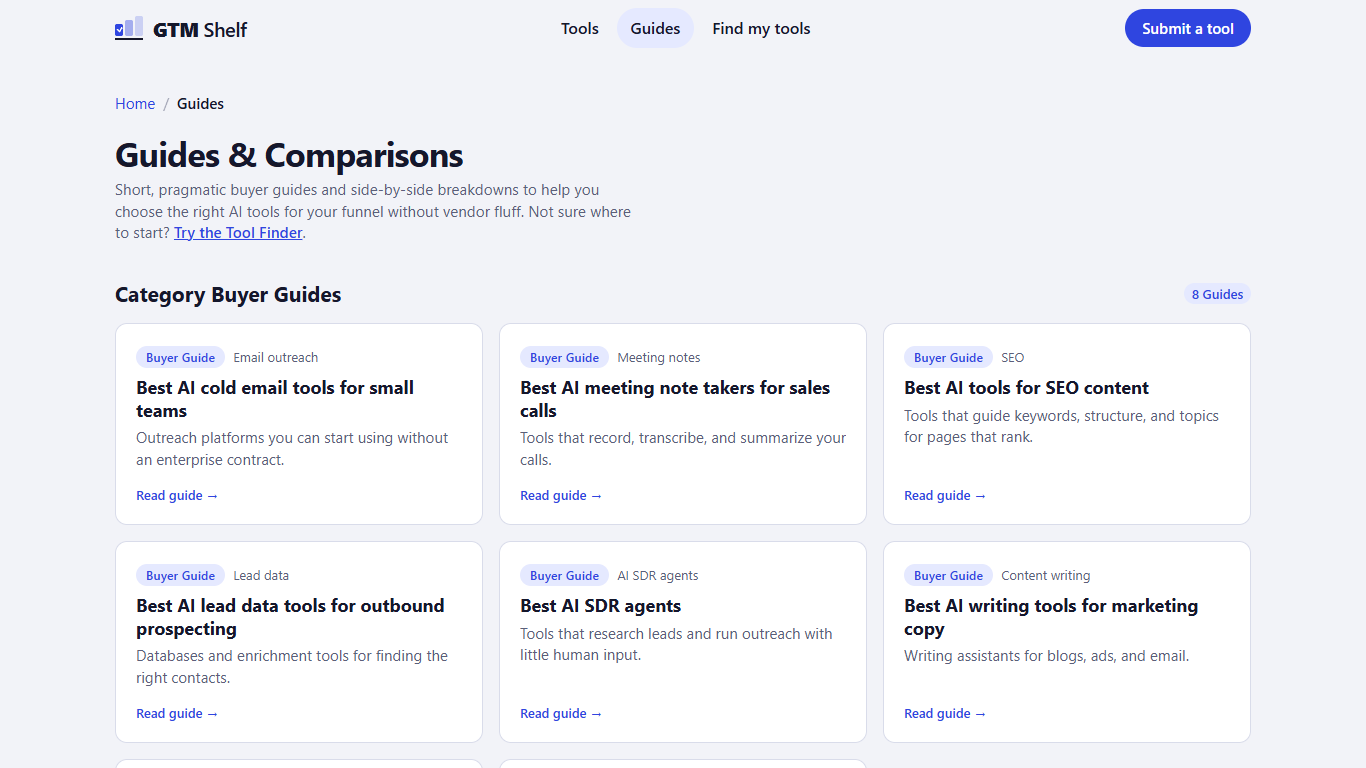
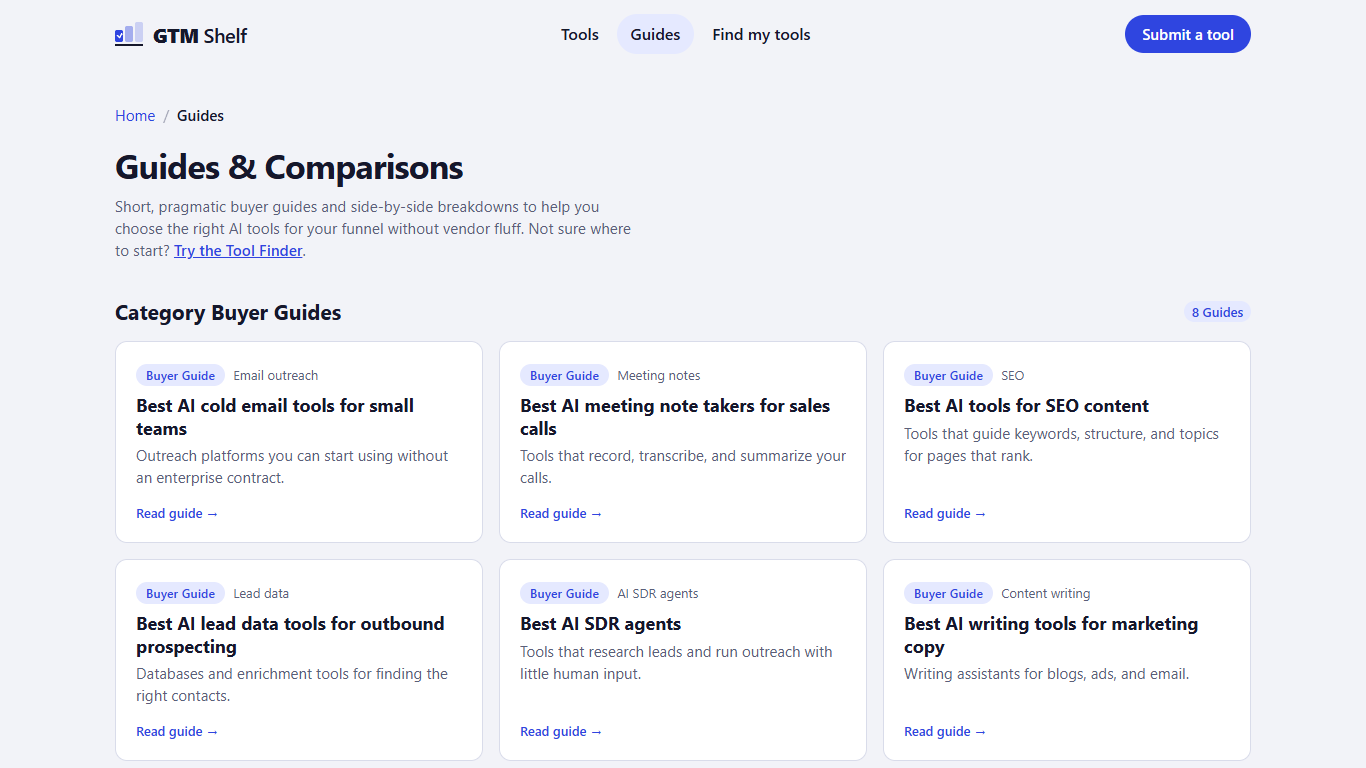
fix(ui): increase menu-hero spacing, lower hero text, and add breathing room above search bar

diff --git a/app/globals.css b/app/globals.css
@@ -53,7 +53,7 @@ button{font:inherit;color:inherit;cursor:pointer}
 .wrap{max-width:1200px;margin:0 auto;padding-inline:clamp(16px,4vw,32px)}
 
 /* header */
-.top{display:flex;align-items:center;justify-content:space-between;padding-block:12px}
+.top{display:flex;align-items:center;justify-content:space-between;padding-block:clamp(14px,1.8vw,18px)}
 .brand{display:flex;align-items:center;gap:10px;font:500 1.25rem var(--display);letter-spacing:-.025em;color:inherit;text-decoration:none}
 .brand b{font-weight:800}
 .btn{display:inline-flex;align-items:center;justify-content:center;gap:8px;border:1px solid transparent;border-radius:999px;padding:9px 16px;font-weight:600;text-decoration:none;line-height:1.2;font-size:.9375rem}
@@ -62,14 +62,15 @@ button{font:inherit;color:inherit;cursor:pointer}
 .btn-ghost:hover{border-color:var(--brand)}
 
 /* hero */
-.hero{display:grid;grid-template-columns:minmax(0,1.15fr) minmax(0,1fr);gap:clamp(28px,4.5vw,60px);align-items:start;padding-top:clamp(14px,2.2vw,24px);padding-bottom:clamp(38px,4.5vw,56px)}
-h1{font:700 clamp(1.85rem,3.4vw,2.75rem)/1.08 var(--display);letter-spacing:-.025em;margin:0 0 12px;text-wrap:balance}
-.lede{color:var(--muted);font-size:1.05rem;max-width:34em;margin:0 0 18px;line-height:1.45}
+.hero{display:grid;grid-template-columns:minmax(0,1.15fr) minmax(0,1fr);gap:clamp(28px,4.5vw,60px);align-items:start;padding-top:clamp(32px,4vw,52px);padding-bottom:clamp(38px,4.5vw,56px)}
+.hero-text{padding-top:clamp(14px,2vw,24px)}
+h1{font:700 clamp(1.85rem,3.4vw,2.75rem)/1.08 var(--display);letter-spacing:-.025em;margin:0 0 14px;text-wrap:balance}
+.lede{color:var(--muted);font-size:1.05rem;max-width:34em;margin:0 0 clamp(24px,3vw,32px);line-height:1.45}
 .search{position:relative}
 .search input{width:100%;padding:13px 18px 13px 48px;border-radius:10px;border:1.5px solid var(--line);background:var(--surface);color:var(--ink);font:500 1rem var(--body)}
 .search input::placeholder{color:var(--muted)}
 .search svg{position:absolute;left:16px;top:50%;translate:0 -50%;color:var(--muted);pointer-events:none}
-.try{margin:10px 0 0;color:var(--muted);font-size:.875rem;display:flex;flex-wrap:wrap;gap:6px 8px;align-items:center}
+.try{margin:14px 0 0;color:var(--muted);font-size:.875rem;display:flex;flex-wrap:wrap;gap:6px 8px;align-items:center}
 .try button{border:1px solid var(--line);background:transparent;border-radius:999px;padding:3px 12px;font-size:.8125rem}
 .try button:hover{border-color:var(--brand)}
 
@@ -78,7 +79,7 @@ h1{font:700 clamp(1.85rem,3.4vw,2.75rem)/1.08 var(--display);letter-spacing:-.02
 .fhelp{margin:0 0 10px;color:var(--muted);font-size:.84375rem}
 .hl{background:linear-gradient(transparent 58%,color-mix(in srgb,var(--accent) var(--hlmix),transparent) 58%);color:inherit;padding:0 .08em;-webkit-box-decoration-break:clone;box-decoration-break:clone}
 .lede strong{color:var(--ink);font-weight:600}
-.ctaline{display:flex;flex-wrap:wrap;align-items:center;gap:8px 12px;margin-top:16px}
+.ctaline{display:flex;flex-wrap:wrap;align-items:center;gap:8px 12px;margin-top:22px}
 .ctaline .btn{padding:7px 14px;color:var(--ink);font-size:.875rem}
 .stage.seen:not([aria-pressed="true"]){background:var(--brand-soft);border-color:transparent}
 .stage.nudge{animation:grow .7s cubic-bezier(.2,.7,.2,1) backwards,nudge 1.3s ease-out 2.2s 1;animation-delay:calc(var(--i) * 90ms),2.2s}
@@ -101,13 +102,14 @@ h1{font:700 clamp(1.85rem,3.4vw,2.75rem)/1.08 var(--display);letter-spacing:-.02
 @keyframes grow{from{clip-path:inset(0 50% 0 50% round 8px);opacity:0}to{clip-path:inset(0 round 8px);opacity:1}}
 
 @media (max-height:850px) and (min-width:861px){
-  .top{padding-block:8px}
-  .hero{padding-top:8px;padding-bottom:34px;gap:32px;align-items:start}
-  h1{font-size:clamp(1.6rem,2.5vw,2.25rem);margin-bottom:8px}
-  .lede{font-size:.95rem;margin-bottom:12px;line-height:1.4}
-  .search input{padding:11px 14px 11px 44px;font-size:.95rem}
-  .try{margin-top:6px;font-size:.8125rem}
-  .ctaline{margin-top:10px}
+  .top{padding-block:14px}
+  .hero{padding-top:28px;padding-bottom:34px;gap:36px;align-items:start}
+  .hero-text{padding-top:14px}
+  h1{font-size:clamp(1.6rem,2.5vw,2.25rem);margin-bottom:12px}
+  .lede{font-size:.95rem;margin-bottom:24px;line-height:1.45}
+  .search input{padding:12px 16px 12px 46px;font-size:.95rem}
+  .try{margin-top:12px;font-size:.8125rem}
+  .ctaline{margin-top:20px}
   .stage{padding:7px 13px;column-gap:10px}
   .stage .name{font-size:.9375rem}
   .stage .hint{font-size:.775rem}

diff --git a/components/Hero.tsx b/components/Hero.tsx
@@ -13,7 +13,7 @@ export function Hero({ searchQuery, onSearchChange, children }: HeroProps) {
 
   return (
     <section className="hero">
-      <div>
+      <div className="hero-text">
         <h1>
           Pick the AI tool for the stage <span className="hl">where your funnel leaks.</span>
         </h1>
